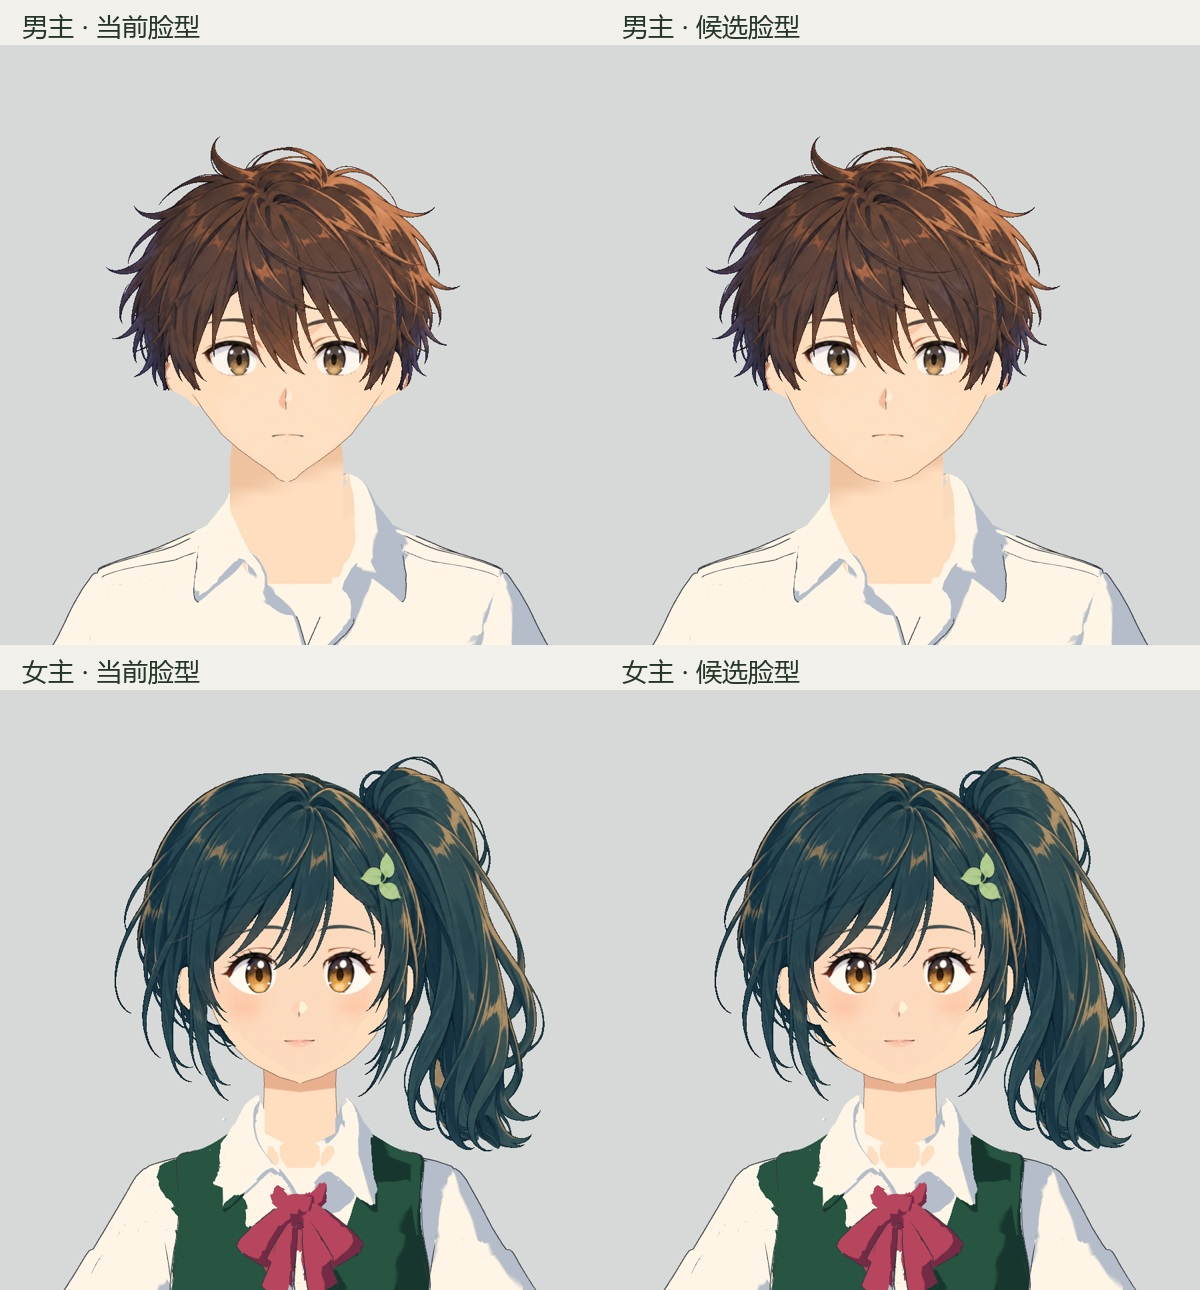
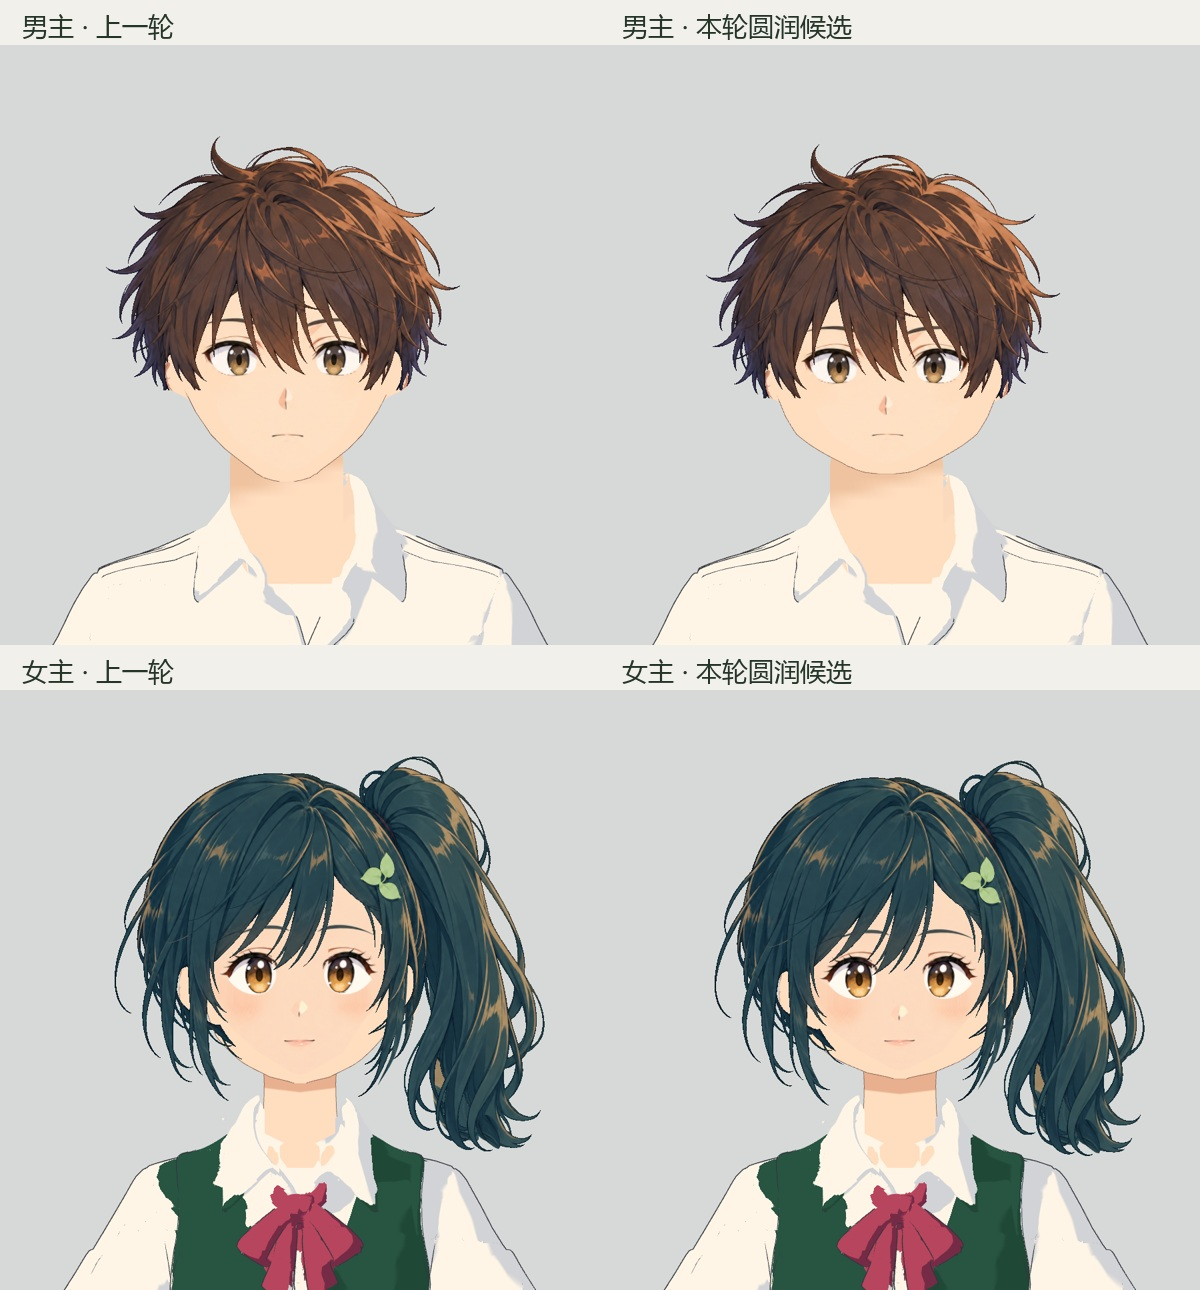
Refine isolated dialogue trial with rounder lower-face proportions

diff --git a/episodes/bio_armor_academy_s1e4/tools/review_round_face_trial.py b/episodes/bio_armor_academy_s1e4/tools/review_round_face_trial.py
@@ -1,0 +1,145 @@
+"""Review and package the rounder face using the exact previous dialogue sound."""
+from pathlib import Path
+import argparse,hashlib,json,shutil,subprocess,sys,zipfile
+from PIL import Image,ImageDraw,ImageFont
+EP=Path(__file__).resolve().parents[1];W=EP/'tmp/round_face';PREV=EP/'tmp/natural_look'
+PUBLIC=EP/'storyboard/naturalness_trial'
+read=lambda p:json.loads(p.read_text(encoding='utf-8'))
+sha=lambda p:hashlib.sha256(p.read_bytes()).hexdigest()
+def save(p,obj):
+    p.parent.mkdir(parents=True,exist_ok=True);p.write_text(json.dumps(obj,ensure_ascii=False,indent=2)+'\n',encoding='utf-8')
+def run(*args):subprocess.run([str(x) for x in args],cwd=EP,check=True)
+
+def boards():
+    for actor in ['lei','aoi']:
+        cfg=read(PREV/f'{actor}_parts.json')
+        cfg.update(before=f'tmp/round_face/before/{actor}/baseline',after=f'tmp/round_face/balanced/{actor}/baseline',
+            out=f'tmp/round_face/parts/{actor}',column_labels=['关系参考（并非精确投影）','上一轮已改善版本','本轮圆润候选'],
+            whole_frame_note='上一轮与本轮使用同机位和表情；头身转角相同，头部落位有小幅调整。',
+            whole_frame_groups={'whole':['front','turn_45','turn_minus45','turn_65','turn_minus65','turn_90','turn_minus90'],
+                'shallow':['front','turn_15','turn_20','turn_25','turn_30','turn_35','turn_45']})
+        rows=cfg['boards'][0]['rows']
+        if actor=='lei':rows[0]['label']='原始身份参考：下颊—下巴；本轮不继续追求原画的尖脸'
+        for row in rows:
+            if actor=='lei' and row['frame']=='front' and '眉眼' in row['label']:
+                row['model_crop'][3]+=24
+        rows.insert(0,{'frame':'front','label':'眼—颊—下巴（小雪仅作比例参考）',
+            'reference':'tmp/yuki_comparison/yuki_112.png','reference_crop':[40,132,218,251],
+            'model_crop':[250,370,650,690]})
+        cfg['boards'][0]['title']=('男主' if actor=='lei' else '女主')+'：完整下脸比例、局部细节与连接'
+        path=W/f'{actor}_parts.json';save(path,cfg)
+        run(sys.executable,EP/'tools/build_oblique_feature_review.py','--comparison',path)
+    font=ImageFont.truetype('C:/Windows/Fonts/msyh.ttc',26)
+    board=Image.new('RGB',(1200,1290),'#f1f0ea');draw=ImageDraw.Draw(board)
+    for row,actor in enumerate(['lei','aoi']):
+        for col,phase in enumerate(['before','balanced']):
+            im=Image.open(W/f'{phase}/{actor}/baseline/front.png').convert('RGB');im.thumbnail((600,600))
+            x=col*600;y=row*645
+            label=('男主' if actor=='lei' else '女主')+(' · 上一轮' if col==0 else ' · 本轮圆润候选')
+            draw.text((x+22,y+8),label,font=font,fill='#253629');board.paste(im,(x,y+45))
+    board.save(W/'face_comparison.jpg',quality=94)
+    board=Image.new('RGB',(1280,800),'#f1f0ea');draw=ImageDraw.Draw(board)
+    for row,t in enumerate([41.3,65.4]):
+        for col,folder in enumerate([PREV/'scene_combined',W/'scene']):
+            im=Image.open(folder/f'scene_{t}.jpg').convert('RGB');im.thumbnail((640,360))
+            x=640*col;y=400*row;draw.text((x+18,y+6),'上一轮' if col==0 else '本轮',font=font,fill='#253629');board.paste(im,(x,y+40))
+    board.save(W/'scene_comparison.jpg',quality=94)
+    board=Image.new('RGB',(1500,1320),'#f1f0ea');draw=ImageDraw.Draw(board)
+    for actor_index,actor in enumerate(['lei','aoi']):
+        for pitch_index,pitch in enumerate([-15,15]):
+            for col,yaw in enumerate([-90,-45,0,45,90]):
+                im=Image.open(W/f'pitch/{actor}/baseline/pitch_{pitch}_{yaw}.png').convert('RGB')
+                im.thumbnail((300,300));x=col*300;y=(actor_index*2+pitch_index)*330
+                draw.text((x+5,y+3),f'{actor} pitch {pitch} yaw {yaw}',font=ImageFont.truetype('C:/Windows/Fonts/arial.ttf',18),fill='#253629')
+                board.paste(im,(x,y+30))
+    board.save(W/'pitch_contact.jpg',quality=94)
+
+def package():
+    previous=read(PREV/'review.json');baseline=read(W/'baseline.json')
+    # Freeze the old review entry before refreshing its familiar public filenames.
+    archive=EP/'output/archive/before_round_face.zip';archive.parent.mkdir(parents=True,exist_ok=True)
+    old=W/'previous_candidate.mp4'
+    if not archive.exists():
+        assert sha(EP/'output/naturalness_candidate.mp4')==baseline['files'][str(EP/'output/naturalness_candidate.mp4')]
+        files=[EP/'output/naturalness_candidate.mp4',EP/'output/naturalness_trial.mp4',*PUBLIC.glob('*')]
+        with zipfile.ZipFile(archive,'w',zipfile.ZIP_DEFLATED) as z:
+            for p in files:
+                if p.is_file():z.write(p,p.relative_to(EP).as_posix())
+    with zipfile.ZipFile(archive) as z:old.write_bytes(z.read('output/naturalness_candidate.mp4'))
+    assert sha(old)==baseline['files'][str(EP/'output/naturalness_candidate.mp4')]
+    chunks=[]
+    for i,row in enumerate(previous['exchanges'],1):
+        cuts=row['sourceCuts'];start=cuts[0][0]
+        filters=[f'[0:v]trim=start={a-start:.9f}:end={b-start:.9f},setpts=PTS-STARTPTS[v{j}]' for j,(a,b) in enumerate(cuts)]
+        filters.append('[v0][v1]concat=n=2:v=1:a=0[v]')
+        path=W/f'clip_{i}.mp4'
+        # PCM is the exact preceding candidate's mix: no new casting, timing, music or volume.
+        run('ffmpeg','-y','-v','error','-i',W/f'render_{i}.mp4','-i',PREV/f'trial_{i}.wav',
+            '-filter_complex',';'.join(filters),'-map','[v]','-map','1:a',
+            '-c:v','libx264','-crf','18','-c:a','aac','-ar','48000','-ac','2','-t',row['duration'],path)
+        chunks.append(path)
+    listing=W/'candidate.txt';listing.write_text(''.join(f"file '{p.as_posix()}'\n" for p in chunks),encoding='utf-8')
+    candidate=W/'candidate.mp4'
+    # Copy the preceding candidate's encoded sound, avoiding another audio generation
+    # or an extra AAC encode. The picture cuts and duration are unchanged.
+    run('ffmpeg','-y','-v','error','-f','concat','-safe','0','-i',listing,'-i',old,
+        '-map','0:v','-map','1:a','-c','copy','-movflags','+faststart',candidate)
+    # Side-by-side synchronized picture uses the old candidate's exact AAC stream.
+    comparison=W/'comparison.mp4'
+    graph="[0:v]drawbox=x=0:y=0:w=190:h=75:color=black:t=fill,drawtext=text='BEFORE':x=24:y=24:fontsize=26:fontcolor=white,scale=640:360[a];[1:v]drawbox=x=0:y=0:w=190:h=75:color=black:t=fill,drawtext=text='AFTER':x=24:y=24:fontsize=26:fontcolor=white,scale=640:360[b];[a][b]hstack=inputs=2[v]"
+    run('ffmpeg','-y','-v','error','-i',old,'-i',candidate,'-filter_complex',graph,
+        '-map','[v]','-map','0:a','-c:v','libx264','-crf','18','-c:a','copy','-movflags','+faststart',comparison)
+    checks={}
+    expected=read(W/'balanced.json')
+    def current_inputs(report):
+        rows=report.get('moduleOverrides',[])
+        return {r['suffix'] for r in rows}==set(expected) and all(
+            r['sha256']==sha(EP/expected[r['suffix']]) for r in rows)
+    def audio_hash(path):
+        return subprocess.check_output(['ffmpeg','-v','error','-i',str(path),'-map','0:a',
+            '-c','copy','-f','hash','-hash','sha256','-'],text=True).strip()
+    checks['identical_encoded_audio']=audio_hash(old)==audio_hash(candidate)==audio_hash(comparison)
+    for p,digest in baseline['files'].items():
+        if p==str(EP/'output/naturalness_candidate.mp4'):continue
+        checks[p]=sha(Path(p))==digest
+    scene=read(W/'scene/report.json')
+    checks['scene_current_inputs']=current_inputs(scene)
+    checks['scene_no_errors']=not scene['errors']
+    checks['scene_reverse_equal']=all(s['seekEqual'] and s['stateEqual'] for s in scene['scene']['frames'].values())
+    for i in [1,2]:
+        report=read(W/f'render_{i}/render_build.json')
+        rows=report['build']['overrides'];expected_scene=read(W/'scene_trial.json')
+        checks[f'render_{i}_current_inputs']={r['suffix'] for r in rows}==set(expected_scene) and all(
+            r['sha256']==sha(EP/expected_scene[r['suffix']]) for r in rows)
+    for actor in ['lei','aoi']:
+        for phase in ['balanced','pitch']:
+            report=read(W/f'{phase}/{actor}/baseline/report.json')
+            checks[f'{actor}_{phase}_current_inputs']=current_inputs(report)
+            checks[f'{actor}_{phase}']=not report['errors'] and all(f['finite'] and f.get('reverseSeekEqual',True) for f in report['frames'].values())
+        turn=read(W/f'turn_{actor}/turn_video_build.json')
+        checks[actor+'_turn_current_inputs']=current_inputs(turn)
+        checks[actor+'_turn']=not turn['errors'] and not turn['changedInputs']
+    assert all(checks.values()),checks
+    for p in [candidate,comparison]:run('ffmpeg','-v','error','-i',p,'-f','null','-')
+    # Publish only to the isolated review entry, never output/current.mp4 or live modules.
+    shutil.copy2(candidate,EP/'output/naturalness_candidate.mp4')
+    shutil.copy2(comparison,EP/'output/naturalness_trial.mp4')
+    shutil.copy2(W/'face_comparison.jpg',PUBLIC/'face_comparison.jpg')
+    overrides=read(W/'scene_trial.json')
+    result={'status':'round-face candidate; user review pending','priorReviewArchive':archive.relative_to(EP).as_posix(),
+        'previousVideoSha256':sha(old),'candidateSha256':sha(candidate),'comparisonSha256':sha(comparison),
+        'inputOverrides':{suffix:{'file':f,'sha256':sha(EP/f)} for suffix,f in overrides.items()},
+        'audioPcmSha256':{f'trial_{i}.wav':sha(PREV/f'trial_{i}.wav') for i in [1,2]},
+        'checks':checks,'exchanges':previous['exchanges'],
+        'limits':'Rendered sparse-frame visual review plus deterministic state checks; not user acceptance or a complete anatomy guarantee.'}
+    save(W/'review.json',result);save(PUBLIC/'verification.json',result)
+    freeze=EP/'output/archive/round_face_sources.zip'
+    with zipfile.ZipFile(freeze,'w',zipfile.ZIP_DEFLATED) as z:
+        for p in sorted(set([*W.glob('*.js'),*W.glob('*.json'),*(EP/f for f in overrides.values()),
+                EP/'tools/prepare_round_face_trial.mjs',EP/'tools/review_round_face_trial.py'])):
+            z.write(p,p.relative_to(EP).as_posix())
+    print(json.dumps({'duration':sum(r['duration'] for r in previous['exchanges']),'checks':len(checks),'currentUnchanged':checks[str(EP/'output/current.mp4')]},ensure_ascii=False))
+
+if __name__=='__main__':
+    parser=argparse.ArgumentParser();parser.add_argument('action',choices=['boards','package'])
+    globals()[parser.parse_args().action]()

diff --git a/episodes/bio_armor_academy_s1e4/storyboard/naturalness_trial/REVIEW.md b/episodes/bio_armor_academy_s1e4/storyboard/naturalness_trial/REVIEW.md
@@ -1,41 +1,43 @@
-# 自然感隔离试片 · 2026-10-17
+# 自然感隔离试片 · 圆润脸型修订 · 2026-10-17
 
-目标：保留当前接近生成绘画的男女主身份、发型、身体细节和场景，借鉴小雪成片的整体协调与对白自然感。
+目标：保留上一轮改善后的角色细节、对白和节奏，优先解决男主眼睛以下过长、急收成三角形的脸型。小雪仅作为整体比例和自然感的参照，不照搬五官、年龄或简化程度。
 
-- [直接看候选：13 秒](../../output/naturalness_candidate.mp4)
-- [前后对比：每段 A 当前、B 候选](../../output/naturalness_trial.mp4)
-- [男女主脸型对照](face_comparison.jpg)
+- [直接看本轮候选：13 秒](../../output/naturalness_candidate.mp4)
+- [同步对比：左 BEFORE 上一轮，右 AFTER 本轮](../../output/naturalness_trial.mp4)
+- [男女主正面对照](face_comparison.jpg)
 
-当前 `output/current.mp4`、正式角色模块和主剧本没有替换。候选仅覆盖罐子玩笑和放学邀请，尚未得到用户认可。
-候选源码、配音原件与配置另冻结在 [输入归档](../../output/archive/naturalness_trial_sources.zip)，避免清理临时截图后丢失本次实际音频与模块。
+本轮仍是待用户复看的隔离候选。正式角色模块、主剧本和 `output/current.mp4` 未替换；上一轮公开试片及说明已冻结在 [回退归档](../../output/archive/before_round_face.zip)。入口沿用同一组文件名。
 
-## 本轮可见结果
+## 可见变化与保留范围
 
-- 保留五官绘画、发型与身体，调整现有下脸几何。男主正脸的针尖下巴变圆顺；女主下颊更连续，正常镜头中的收益较小。侧脸只小幅收回鼻口凸度，没有增加视角修型。
-- 衣服阴影反差降低，但领口/脖子的碎色块、部分袖口和头颈连接仍不自然，不能当作已解决。身体姿态和动作沿用当前版本，没有重建身体。
-- 女主两句改为“装叶子的呀。你这么大，哪儿放得下。”和“你又不是叶子。明天放学再过来吧。”；沿用当前音色，用火山 native 语境指令重新试读。男主语音不变。
-- 接话间隔约 2.81→0.34 秒、3.00→1.10 秒。后一段保留拿稳罐子和抬眼的时间；没有压缩全片停顿。候选剪掉的是现有切镜前的空等，尚未写入正式剧本时间轴。
-- 新语音按最终 PCM 重新生成口型，字幕使用候选剧本。配乐仍为当前已选的 Suno 音乐，短片内连续铺设并按新对白压低；没有生成替代配乐。
+- 男主：缩短眼睛以下的整段下脸，放缓下颊向下巴的收束，并小幅收回鼻口凸度。正面和浅斜面的长三角形减轻。更强的一档试样出现过宽、偏幼态的下脸，因此选用较克制的一档。
+- 女主：较小幅度缩短和充实下脸；正面、45°的下颊更连贯，实际中景的变化比男主小。
+- 绘画细节：原有眼形、虹膜、发束和衣物沿用上一轮。几何改变时同步映射鼻口与绘画坐标，没有新增随转角开关的修型。
+- 头颈：下脸缩短后露颈变长，整体头部略向下落位，耳发一起跟随。复查了正侧面及上下俯仰；领口碎色块和颈部块状阴影仍然存在。
+- 头发：正面发束细节保留，侧后发仍有壳感；本轮没有重新设计后脑发束，也没有完整背面证据。
+- 声音：两段对白、间隔、配乐和音量均沿用上一轮。候选和同步对比直接复制上一轮 AAC 音轨，编码数据哈希一致。
 
-## 证据与检查范围
+## 分解观察与视频证据
 
-- 原画/基线/候选分解：[女主](../../tmp/natural_look/parts/aoi/parts.jpg)、[男主](../../tmp/natural_look/parts/lei/parts.jpg)。参考姿态未标定，只用于结构判断，不能当精确投影。
-- 整体回查：[女主](../../tmp/natural_look/parts/aoi/whole.jpg)、[男主](../../tmp/natural_look/parts/lei/whole.jpg)。两侧 45°、90°、正面，头转身体固定。
-- [女主六秒转面](../../tmp/natural_look/aoi_turn.mp4)、[男主六秒转面](../../tmp/natural_look/lei_turn.mp4)；实际编码视频抽帧已检查，不能据稀疏抽帧声称逐帧完全无变形。
-- 30 个头部/表情状态及 5 个场景时刻正反序一致；同角度分解的实际头/身角匹配、顶点有限、浏览器无错误。转面输入在渲染期间未变动。
-- 对比视频解码无错误；候选为 1280×720、30fps、391 帧。对最终短片抽帧复看对白与持罐过程。
-- 音频模型转写了四段对白，未报告吞字或接缝；其评价混淆了 A/B 重复与剧情重复，**不作为自然度优劣结论，也不是人工试听**。
+- [男主部位板](../../tmp/round_face/parts/lei/parts.jpg)：完整眼颊下巴关系比上一轮短而饱满；眉眼细节保留；侧面鼻口起伏更克制，下颌仍保留少年的转折；耳根继续贴合头部，耳内绘画未重做。
+- [女主部位板](../../tmp/round_face/parts/aoi/parts.jpg)：45°眼下到下巴的收束减缓，两侧纯侧面缩短幅度较小。原画姿态未标定，作为结构参考，不用于逐像素拟合。
+- 返回整脸：[男主](../../tmp/round_face/parts/lei/whole.jpg)、[女主](../../tmp/round_face/parts/aoi/whole.jpg)。重点浅角度：[男主](../../tmp/round_face/parts/lei/shallow.jpg)、[女主](../../tmp/round_face/parts/aoi/shallow.jpg)。前后机位、表情和头身转角一致；头部落位有小幅调整。
+- [俯仰总览](../../tmp/round_face/pitch_contact.jpg)：每角色在 0°、±45°、±90°转头下分别抬头、低头 15°，查看下颌到颈、耳发与领口。
+- [男主六秒转头](../../tmp/round_face/lei_turn.mp4)、[女主六秒转头](../../tmp/round_face/aoi_turn.mp4)：各 144 帧，查看了实际 MP4 的抽帧总览。浅角度序列暂未见新增脸颊突变；稀疏抽帧不等于逐帧美术验收。
+- [真实对白同步对比抽帧](../../tmp/round_face/delivered_comparison.jpg)：覆盖两组交流和持罐动作，检查最终合成实际采用了本轮脸型。
 
-完整头发背面、全身动态和整集节奏本轮未重新验收。试片显示局部改进，还不能声称已达到小雪成片的整体自然度。
+两角色各 22 个平视状态、10 个俯仰状态，以及 30 个头部/表情状态和 5 个实际场景时刻完成检查；报告没有浏览器错误，所采样的反向 seek 一致。部位、转面和实际对白渲染的源码哈希均与本轮候选匹配。最终候选为 1280×720、30fps、391 帧，视频解码无错误。构建和音轨核验见 [verification.json](verification.json)。这些检查不代表用户已认可自然度，也不能证明全身动作或完整剧集已完成验收。
 
-## 复现
+## 复现与回退
 
-在本 episode 目录执行，Python 使用仓库 `.venv/Scripts/python.exe`：
+本轮源码、配置和构建工具在 [本轮输入归档](../../output/archive/round_face_sources.zip)。上一轮独立模块、两句女主配音原件和配置在 [上一轮输入归档](../../output/archive/naturalness_trial_sources.zip)。`before_round_face.zip` 保留了修改前实际交付视频。
 
-1. `node tools/prepare_natural_look_trial.mjs`：生成隔离角色模块和基线哈希。
-2. `python tools/build_naturalness_trial.py prepare`：准备候选剧本、两句缓存配音、音频与口型；输出只在 `tmp/natural_look/dialogue`。
-3. `node render.mjs --range 15,24.3 --out ../tmp/natural_look/render_1.mp4 --board tmp/natural_look/render_1 --resource-overrides tmp/natural_look/scene_trial.json --audio-from tmp/natural_look/dialogue/assets3d/mixed.wav`
-4. 同命令用 `--range 64.2,74.4` 和 `render_2` 渲染第二段。
-5. `python tools/build_naturalness_trial.py assemble`：生成上面的候选与 A/B 视频，检查基线未变。
+在本 episode 目录：
 
-分解板由 `build_naturalness_trial.py boards` 生成；所需角度截图在 `tmp/natural_look/before|shape/<actor>/baseline`，使用现有 `render_profile_feature_study.mjs` 的 baseline、10 个标准视角和 `shape.json` 模块覆盖制作。完整构建哈希与剪辑区间见 [review.json](../../tmp/natural_look/review.json)。
+1. `node tools/prepare_round_face_trial.mjs` 从冻结的上一轮模块生成隔离版本，保留首次基线哈希。
+2. 用 `render_profile_feature_study.mjs` 的 `baseline`、`--additional-angles 20,30,75,-20,-30,-35,-55,-75` 和 `--pitch-study` 分别生成两角色平视及俯仰证据；当前模块覆盖为 `tmp/round_face/balanced.json`。
+3. 用 `review_drawn_characters.mjs --mode direct` 生成 `tmp/round_face/scene`；用 `render_character_profile_turn.mjs` 生成两角色转头视频，均使用同一覆盖配置。
+4. `node render.mjs --range 15,24.3 --out ../tmp/round_face/render_1.mp4 --board tmp/round_face/render_1 --resource-overrides tmp/round_face/scene_trial.json --audio-from tmp/natural_look/dialogue/assets3d/mixed.wav`；第二段使用 `64.2,74.4` 和 `render_2`。
+5. `python tools/review_round_face_trial.py boards` 生成局部与整体对照；`python tools/review_round_face_trial.py package` 核对来源、拼接原剪辑区间并刷新本页入口。Python 使用仓库 `.venv/Scripts/python.exe`。
+
+没有重新合成配音或更换 Suno 配乐，没有将候选写入正式角色资产。
